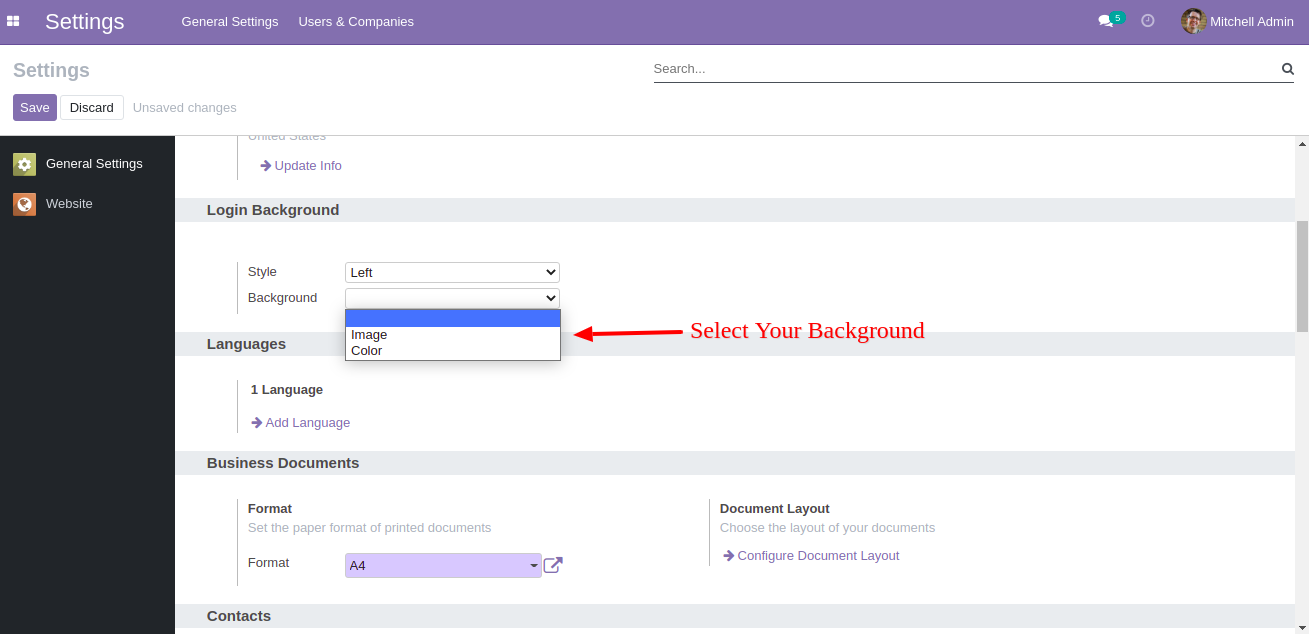
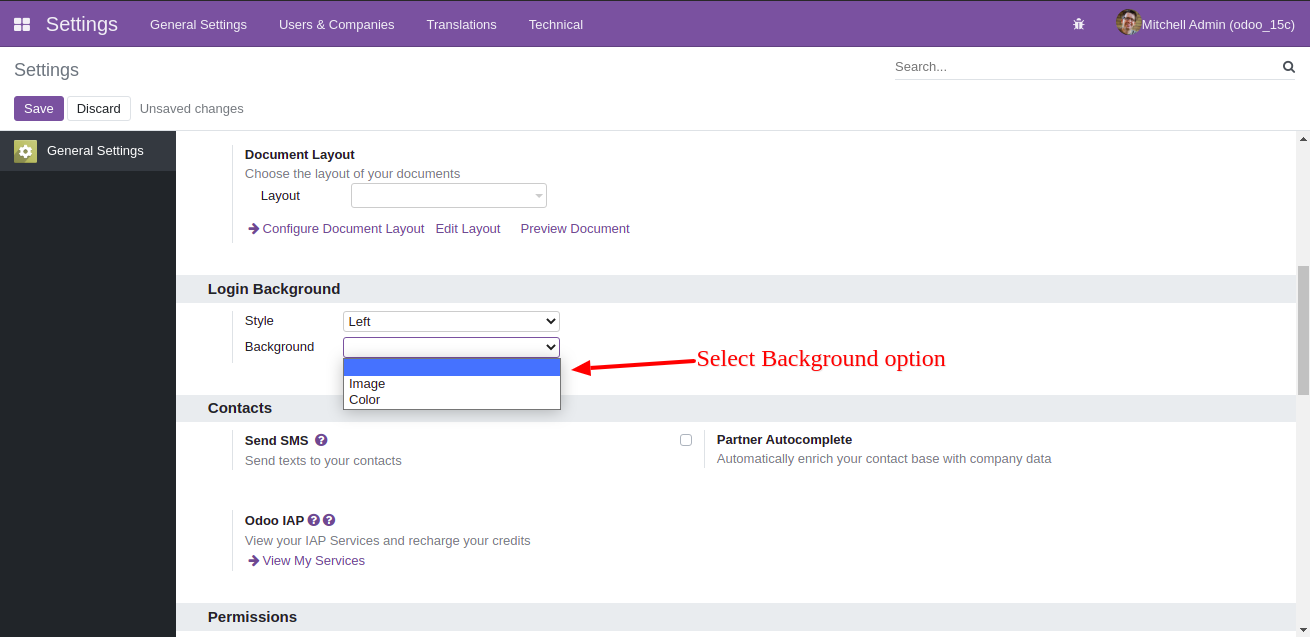
upload v15.0 apps

diff --git a/fims_row_no_header_fix_tree_view/static/src/js/row_no.js b/fims_row_no_header_fix_tree_view/static/src/js/row_no.js
@@ -43,7 +43,6 @@ odoo.define('fims_row_no_header_fix_tree_view.row_in_list', function (require) {
                     } else {
                         // the opened group contains records
                         var $records = _.map(group.data, function (record,index) {
-                        	//Nilesh
                         	if (self.mode !== 'edit' || self.hasSelectors){
                         		return self._renderRow(record).prepend($("<th class='o_list_row_count_fims'>").html(index+1)); //.prepend($('<td>'));
                         	}
@@ -76,21 +75,20 @@ odoo.define('fims_row_no_header_fix_tree_view.row_in_list', function (require) {
         			$header.find("tr").prepend($("<th class='o_list_row_number_header o_list_row_count_fims'>").html('#'));
         		}
         	}
-        	//$header.find("tr").prepend($('<th>').html('#'));
         	return $header;
         },
         _renderRow: function (record) {
         	var $row = this._super(record);
         	if (this.mode !== 'edit' && this.state.groupedBy.length==0){
-                var index = this.state.data.findIndex(function(e){return record.id===e.id})
-                if(index === 0) {
-                    this.state.data.new_index = 0
-                }
+    	    	var index = this.state.data.findIndex(function(e){return record.id===e.id})
+    	    	if(index === 0) {
+    	    	    this.state.data.new_index = 0
+    	    	}
                 if(record.data.display_type !== 'line_section' && record.data.display_type !== 'line_note'){
                     this.state.data.new_index += 1
                     $row.prepend($("<th class='o_list_row_count_fims'>").html(this.state.data.new_index));
                 }
-            }
+        	}
         	return $row;
 
         },

diff --git a/fims_login_background_and_styles/static/description/index.html b/fims_login_background_and_styles/static/description/index.html
@@ -6,7 +6,7 @@
                     <ul class="list-unstyled">
                         <div class="alert alert-info" style="background-color:#ed2f2f;color:#FFF"><i class="fa fa-hand-o-right"></i> <strong> Key Features </strong></div>
                         <li><i class="fa fa-key" style="color:#ed2f2f"></i> This module is used for customized login page.</li>
-                        <li><i class="fa fa-key" style="color:#ed2f2f"></i> User can select login form position and also select background color or image.</li>
+                        <li><i class="fa fa-key" style="color:#ed2f2f"></i> User can Select Login Form Position and also select background color or image.</li>
                     </ul>
                 </div>
             </div>

diff --git a/fims_login_background_and_styles/static/src/css/web_login_style.css b/fims_login_background_and_styles/static/src/css/web_login_style.css
@@ -1,7 +1,7 @@
 .container{
     max-width: 100%;
 }
-#background{
+.background{
     height:100%;
     display: block;
 	background-repeat: no-repeat;

diff --git a/fims_row_no_header_fix_tree_view/static/src/css/list_header.css b/fims_row_no_header_fix_tree_view/static/src/css/list_header.css
@@ -1,4 +1,4 @@
-.o_list_view .o_list_table thead {
+thead{
     position: sticky !important;
     top: 0px !important;
     z-index: 999 !important;

diff --git a/fims_login_background_and_styles/controllers/main.py b/fims_login_background_and_styles/controllers/main.py
@@ -1,13 +1,17 @@
 # -*- encoding: utf-8 -*-
 
 import logging
+import werkzeug
 import werkzeug.exceptions
 import werkzeug.utils
-from werkzeug.urls import iri_to_uri
+import werkzeug.wrappers
+import werkzeug.wsgi
+from werkzeug.urls import url_encode, iri_to_uri
 import odoo
+import odoo.modules.registry
 from odoo.tools.translate import _
 from odoo import http, tools
-from odoo.http import request, Response
+from odoo.http import content_disposition, dispatch_rpc, request, Response
 
 _logger = logging.getLogger(__name__)
 
@@ -106,7 +110,7 @@ class Home(http.Controller):
         ensure_db()
         request.params['login_success'] = False
         if request.httprequest.method == 'GET' and redirect and request.session.uid:
-            return http.redirect_with_hash(redirect)
+            return request.redirect(redirect)
 
         if not request.uid:
             request.uid = odoo.SUPERUSER_ID
@@ -120,9 +124,10 @@ class Home(http.Controller):
         if request.httprequest.method == 'POST':
             old_uid = request.uid
             try:
-                uid = request.session.authenticate(request.session.db, request.params['login'], request.params['password'])
+                uid = request.session.authenticate(request.session.db, request.params['login'],
+                                                   request.params['password'])
                 request.params['login_success'] = True
-                return http.redirect_with_hash(self._login_redirect(uid, redirect=redirect))
+                return request.redirect(self._login_redirect(uid, redirect=redirect))
             except odoo.exceptions.AccessDenied as e:
                 request.uid = old_uid
                 if e.args == odoo.exceptions.AccessDenied().args:

diff --git a/fims_login_background_and_styles/models/res_config_settings.py b/fims_login_background_and_styles/models/res_config_settings.py
@@ -5,10 +5,10 @@ from odoo import api, fields, models, modules
 class ResConfigSettings(models.TransientModel):
     _inherit = 'res.config.settings'
 
-    style = fields.Selection([('default', 'Default'), ('left', 'Left'), ('right', 'Right'), ('middle', 'Middle')],string=u"风格" ,help='选择主题背景')
-    background = fields.Selection([('image', 'Image'), ('color', 'Color')], default='color',string=u"背景", help='选择主题背景')
-    background_image = fields.Many2one('login.image', string=u"背景图片", help='选择登录页面的背景图片')
-    color = fields.Char(string=u"颜色", help="选择背景颜色")
+    style = fields.Selection([('default', 'Default'), ('left', 'Left'), ('right', 'Right'), ('middle', 'Middle')], help='Select Background Theme')
+    background = fields.Selection([('image', 'Image'), ('color', 'Color')], default='color', help='Select Background Theme')
+    background_image = fields.Many2one('login.image', string="Image", help='Select Background Image For Login Page')
+    color = fields.Char(string="Color", help="Choose your Background color")
 
     @api.onchange('background')
     def onchange_background(self):

diff --git a/fims_login_background_and_styles/__manifest__.py b/fims_login_background_and_styles/__manifest__.py
@@ -2,7 +2,7 @@
 {
     'name': 'Login Background And Styles',
     'summary': 'The new configurable Odoo Web Login Screen',
-    'version': '14.0.2.0.0',
+    'version': '15.0.2.0.0',
     'category': 'website',
     'summary': """
     You can customised login page like add background image or color and change position of login form.
@@ -15,10 +15,10 @@
         'security/ir.model.access.csv',
         'views/res_config_settings_views.xml',
         'views/login_image.xml',
+        'templates/assets.xml',
         'templates/left_login_template.xml',
         'templates/right_login_template.xml',
         'templates/middle_login_template.xml',
-        'templates/assets.xml',
     ],
     'qweb': [
     ],
@@ -26,3 +26,4 @@
     'application': True,
     'images': ['static/description/banner.png'],
 }
+

diff --git a/fims_row_no_header_fix_tree_view/__manifest__.py b/fims_row_no_header_fix_tree_view/__manifest__.py
@@ -9,15 +9,20 @@
     'name': 'Row Number Header Fix Tree View',
     'category': 'Report',
     'summary': 'Show Row Number and Fixed Header in Tree/List View',
-    'version': '14.0.1.0',
+    'version': '15.0.1.0',
     'license': 'OPL-1',
     'description': """User allow to see header even there is long scrolling datas, in tree view.""",
     'depends': ['base'],
     'author': "Fortutech IMS Pvt. Ltd.",
     'website': "http://www.fortutechims.com",
     'data': [
-        'views/assets.xml',
     ],
+    'assets': {
+        'web.assets_backend': [
+            'fims_row_no_header_fix_tree_view/static/src/css/list_header.css',
+            'fims_row_no_header_fix_tree_view/static/src/js/row_no.js',
+        ],
+    },
     "installable": True,
     "application": True,
     "auto_install": False,

diff --git a/fims_general_search_tree_view/__manifest__.py b/fims_general_search_tree_view/__manifest__.py
@@ -9,7 +9,7 @@
     'name': 'General Search in Tree/List View',
     'category': 'Report',
     'summary': 'General Search in Tree/List View',
-    'version': '14.0.1.0',
+    'version': '15.0.1.0.0',
     'license': 'OPL-1',
     'description': """User allow to search for all fields value in tree view.""",
     'depends': ['base'],

diff --git a/fims_login_background_and_styles/models/login_image.py b/fims_login_background_and_styles/models/login_image.py
@@ -6,5 +6,5 @@ class LoginImage(models.Model):
     _name = 'login.image'
     _rec_name = 'name'
 
-    image = fields.Binary(string=u"图片")
-    name = fields.Char(string=u"名字")
+    image = fields.Binary(string="Image")
+    name = fields.Char(string="Name")

diff --git a/fims_general_search_tree_view/__init__.py b/fims_general_search_tree_view/__init__.py
@@ -1,4 +1,2 @@
 # -*- coding: utf-8 -*-
 # Part of Odoo. See LICENSE file for full copyright and licensing details.
-
-from . import models
